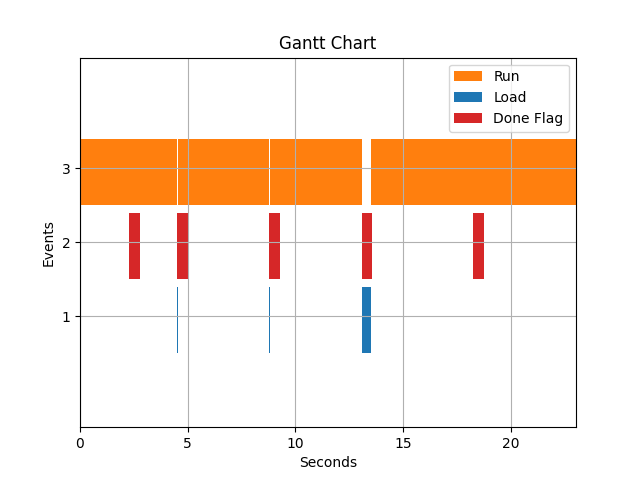
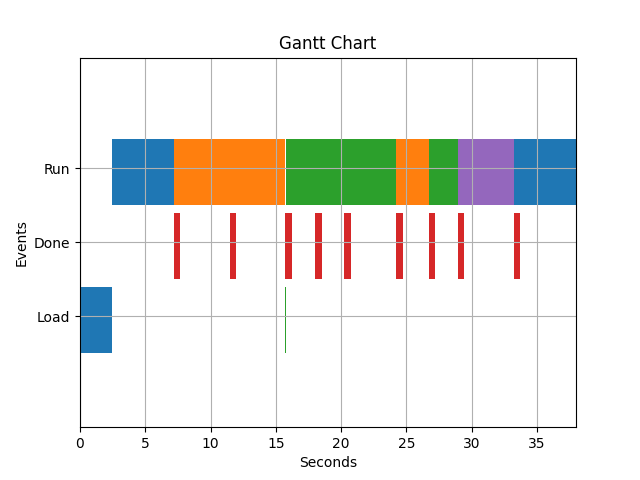
changed gantt chart

diff --git a/assets/Simulation.py b/assets/Simulation.py
@@ -106,8 +106,8 @@ class Simulation:
         
         # Setting ticks on y-axis
         gnt.set_yticks([15, 25, 35])
+        gnt.set_yticklabels(labels=["Load", "Done", "Run"])
         # Labelling tickes of y-axis
-        gnt.set_yticklabels(['1', '2', '3'])
         
         # Setting graph attribute
         gnt.grid(True)
@@ -120,11 +120,24 @@ class Simulation:
 
         prev_time = 0
         prev_event = "Load"
+
+        dict = {}
+        colors = ['tab:blue', 'tab:orange', 'tab:green', 'tab:purple', 'tab:brown', 'tab:olive', 'tab:cyan']
+        for time, model, event, task_no in self.logger:
+            if(model in dict): continue
+            dict[model] = colors[0]
+            colors.pop(0)
+
+
+        run_colors_arr = []
+        load_colors_arr = []
         for time, model, event, task_no in self.logger:
             if(prev_event == "Run"):
                 run_arr += [(prev_time, (time-prev_time))]
+                run_colors_arr += [dict[model]]
             elif(prev_event == "Load"):
                 load_arr += [(prev_time, (time-prev_time))]
+                load_colors_arr += [dict[model]]
             elif(prev_event == "Done"):
                 done_arr += [(time, 0.5)]
             prev_time = time
@@ -134,16 +147,15 @@ class Simulation:
         # print(load_arr)
         # print(done_arr)
 
-        gnt.broken_barh(run_arr, (30, 9), facecolors =('tab:orange'), label="Run")
+        gnt.broken_barh(run_arr, (30, 9), facecolors =run_colors_arr)
         
         # Declaring multiple bars in at same level and same width
         gnt.broken_barh(load_arr, (10, 9),
-                                facecolors ='tab:blue', label="Load")
+                                facecolors =load_colors_arr)
         
         gnt.broken_barh(done_arr, (20, 9),
-                                        facecolors =('tab:red'), label="Done Flag"), 
+                                        facecolors =('tab:red')), 
         
-        plt.legend()
         plt.title("Gantt Chart")
         name = "gantt" + str(i) + ".png"
         plt.savefig(name)

diff --git a/main.py b/main.py
@@ -28,12 +28,12 @@ def get_random_schedule(num_tasks = 10, time_period = 30):
 
 QUANTUM = 2
 
-schedule = SCHEDULE2
+schedule = get_random_schedule()
 
 RR_sim = RoundRobin(schedule, QUANTUM)
 FCFS_sim = FCFS(schedule)
 SFS_sim = SFS(schedule)
-SRTF_sim = SRTF(schedule,evict_policy=Eviction.MRU)
+SRTF_sim = SRTF(schedule,evict_policy=Eviction.RAND)
 for model in [model1, model2, model3, model4]:
     for simulation in [RR_sim, FCFS_sim, SFS_sim, SRTF_sim]:
         simulation.add_model(model)
